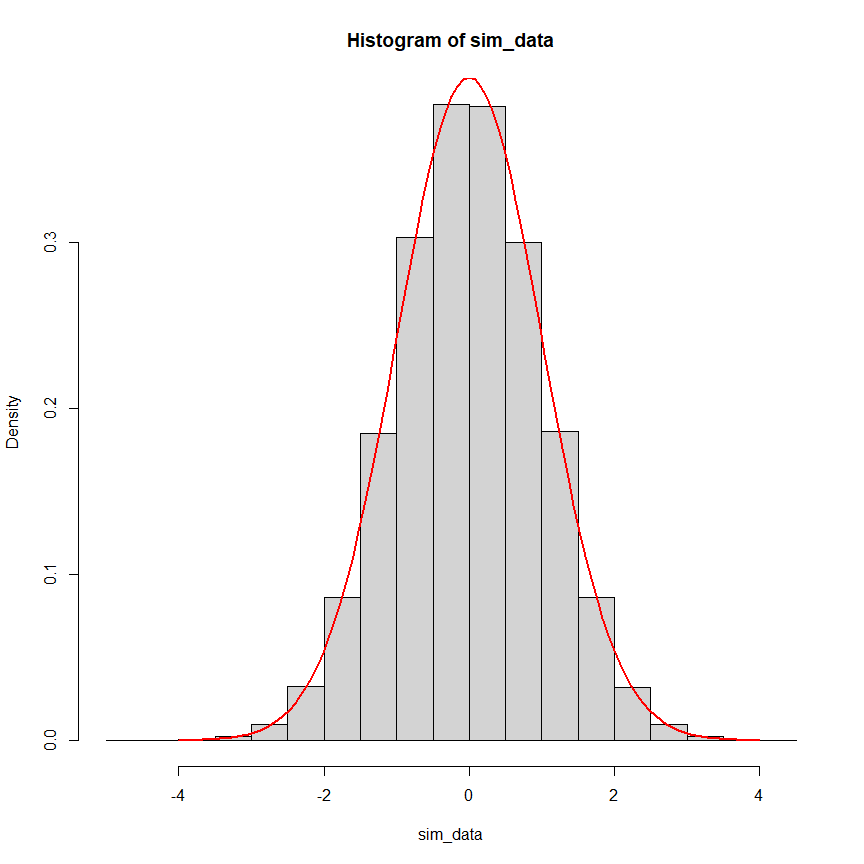
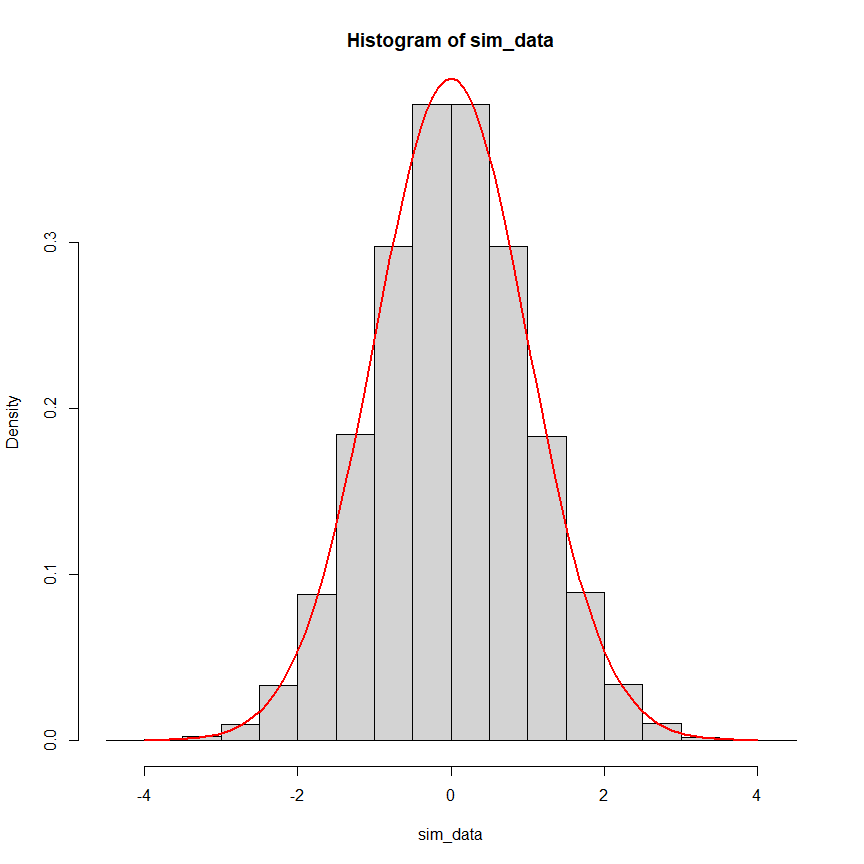
updated

Changed region(s): [[0.2188, 0.0938, 0.7812, 0.875], [0.7812, 0.8438, 0.8125, 0.875], [0.6875, 0.9062, 0.7188, 0.9375]]

diff --git a/acceptance_rejection_beta_distribution.md b/acceptance_rejection_beta_distribution.md
@@ -55,9 +55,9 @@ cat("Mean simulation: ", M, "\n",
     sep = "")
 ```
 
-    Mean simulation: 0.3018123
+    Mean simulation: 0.2995478
     Mean real: 0.3
-    Variance simulation: 0.02143388
+    Variance simulation: 0.02096389
     variance Real: 0.021
 
 ``` r
@@ -82,9 +82,9 @@ cat("Mean simulation: ", M, "\n",
     sep = "")
 ```
 
-    Mean simulation: 0.2993234
+    Mean simulation: 0.3001431
     Mean real: 0.3
-    Variance simulation: 0.02090866
+    Variance simulation: 0.02082865
     variance Real: 0.021
 
 <br><br>
@@ -100,6 +100,16 @@ cat("Mean simulation: ", M, "\n",
 ## Generate Normal Standard Using Acceptance-Rejection Method
 
 ## Condidate Distribution is Exponential Distribution
+
+$$
+\begin{aligned}
+& Dist:1.~~~ Y \sim \mathcal{N}(\mu = 0, \sigma^2 = 1), \\
+& Dist:2. ~~ Y \sim \mathcal{N}(\mu = -3.5, \sigma^2 = 9), \\
+& \text{Candidate Distribution:} ~~ U \sim \mathcal{E}\text{xp}(\lambda = 1). 
+\end{aligned}
+$$
+
+<br><br>
 
 ``` r
 ratio <- function(x) dnorm(x) / dexp(x)
@@ -143,13 +153,13 @@ sim_data <- sim_normal$Norm_sim
 mean(sim_data)
 ```
 
-    [1] -0.002180785
+    [1] 0.001689799
 
 ``` r
 sd(sim_data)
 ```
 
-    [1] 0.9980412
+    [1] 1.0019
 
 ``` r
 hist(sim_data, freq = FALSE)
@@ -167,13 +177,13 @@ sim_data <- sim_normal$Norm_sim
 mean(sim_data)
 ```
 
-    [1] -3.497725
+    [1] -3.500053
 
 ``` r
 sd(sim_data)
 ```
 
-    [1] 3.000471
+    [1] 2.999365
 
 ``` r
 hist(sim_data, freq = FALSE)
